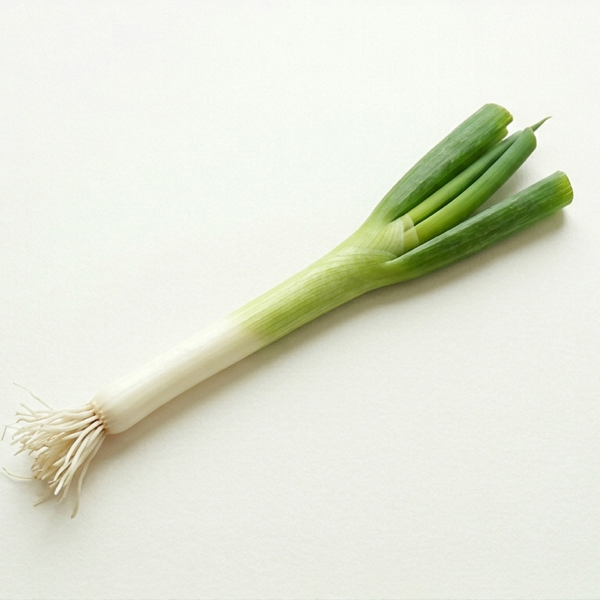
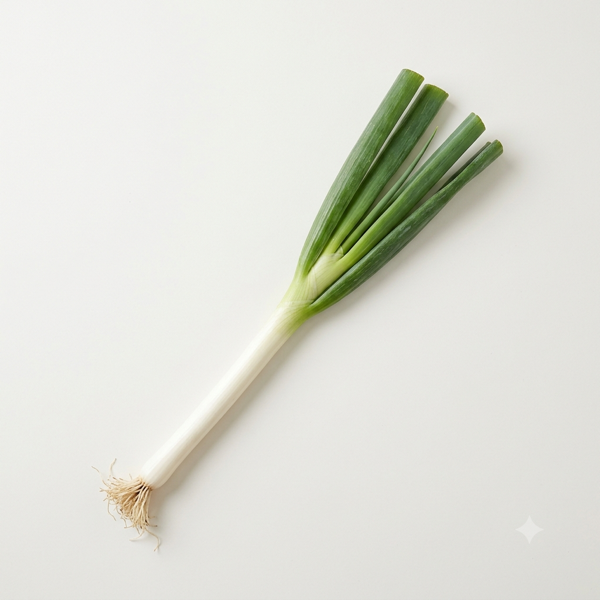
feat(mobile): 품종별 썸네일 26종 추가
쌀/상추/오이/호박/건고추/풋고추/파/사과/배/포도/방울토마토/계란
품종(kind) 단위 이미지를 assets/items/{item}_{kind}.png 로 추가하고
thumbnails.gen.ts 재생성 (71 -> 96개).

Changed region(s): [[0.0, 0.09, 0.96, 0.93], [0.9, 0.18, 0.93, 0.21]]

diff --git a/mobile/src/thumbnails.gen.ts b/mobile/src/thumbnails.gen.ts
@@ -2,6 +2,8 @@
 // 키: `{itemCode}` 또는 종류별 `{itemCode}_{kindCode}`. 조회는 thumbFor() 사용.
 export const THUMBS: Record<string, number> = {
   '111': require('../assets/items/111.png'),
+  '111_01': require('../assets/items/111_01.png'),
+  '111_10': require('../assets/items/111_10.png'),
   '112': require('../assets/items/112.png'),
   '141': require('../assets/items/141.png'),
   '142': require('../assets/items/142.png'),
@@ -12,21 +14,34 @@ export const THUMBS: Record<string, number> = {
   '212': require('../assets/items/212.png'),
   '213': require('../assets/items/213.png'),
   '214': require('../assets/items/214.png'),
+  '214_01': require('../assets/items/214_01.png'),
+  '214_02': require('../assets/items/214_02.png'),
   '215': require('../assets/items/215.png'),
   '221': require('../assets/items/221.png'),
   '222': require('../assets/items/222.png'),
   '223': require('../assets/items/223.png'),
+  '223_01': require('../assets/items/223_01.png'),
+  '223_02': require('../assets/items/223_02.png'),
+  '223_03': require('../assets/items/223_03.png'),
   '224': require('../assets/items/224.png'),
+  '224_01': require('../assets/items/224_01.png'),
+  '224_02': require('../assets/items/224_02.png'),
   '225': require('../assets/items/225.png'),
   '231': require('../assets/items/231.png'),
   '232': require('../assets/items/232.png'),
   '233': require('../assets/items/233.png'),
   '241': require('../assets/items/241.png'),
+  '241_00': require('../assets/items/241_00.png'),
+  '241_01': require('../assets/items/241_01.png'),
   '242': require('../assets/items/242.png'),
+  '242_02': require('../assets/items/242_02.png'),
+  '242_03': require('../assets/items/242_03.png'),
+  '242_04': require('../assets/items/242_04.png'),
   '243': require('../assets/items/243.png'),
   '245': require('../assets/items/245.png'),
   '246': require('../assets/items/246.png'),
   '246_00': require('../assets/items/246_00.png'),
+  '246_02': require('../assets/items/246_02.png'),
   '247': require('../assets/items/247.png'),
   '248': require('../assets/items/248.png'),
   '252': require('../assets/items/252.png'),
@@ -38,15 +53,23 @@ export const THUMBS: Record<string, number> = {
   '279': require('../assets/items/279.png'),
   '280': require('../assets/items/280.png'),
   '411': require('../assets/items/411.png'),
+  '411_05': require('../assets/items/411_05.png'),
+  '411_06': require('../assets/items/411_06.png'),
   '412': require('../assets/items/412.png'),
+  '412_01': require('../assets/items/412_01.png'),
+  '412_04': require('../assets/items/412_04.png'),
   '413': require('../assets/items/413.png'),
   '414': require('../assets/items/414.png'),
+  '414_01': require('../assets/items/414_01.png'),
+  '414_02': require('../assets/items/414_02.png'),
+  '414_12': require('../assets/items/414_12.png'),
   '415': require('../assets/items/415.png'),
   '418': require('../assets/items/418.png'),
   '419': require('../assets/items/419.png'),
   '420': require('../assets/items/420.png'),
   '421': require('../assets/items/421.png'),
   '422': require('../assets/items/422.png'),
+  '422_02': require('../assets/items/422_02.png'),
   '424': require('../assets/items/424.png'),
   '425': require('../assets/items/425.png'),
   '428': require('../assets/items/428.png'),
@@ -71,5 +94,7 @@ export const THUMBS: Record<string, number> = {
   '9901_24': require('../assets/items/9901_24.png'),
   '9901_99': require('../assets/items/9901_99.png'),
   '9903': require('../assets/items/9903.png'),
+  '9903_21': require('../assets/items/9903_21.png'),
+  '9903_23': require('../assets/items/9903_23.png'),
   '9908': require('../assets/items/9908.png'),
 };
